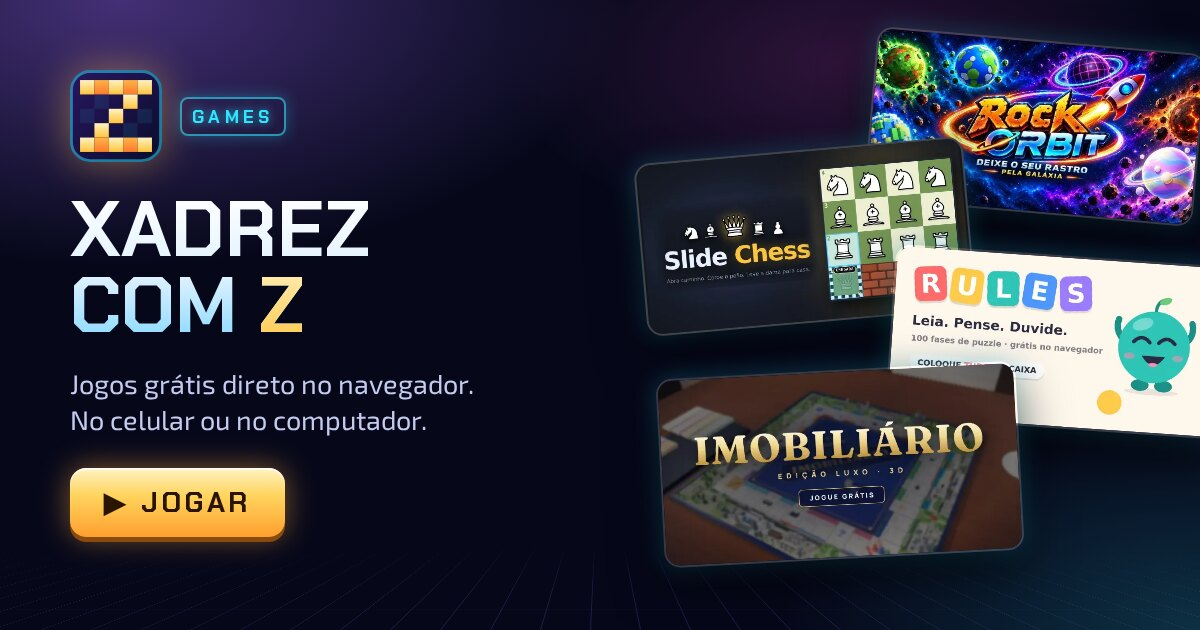
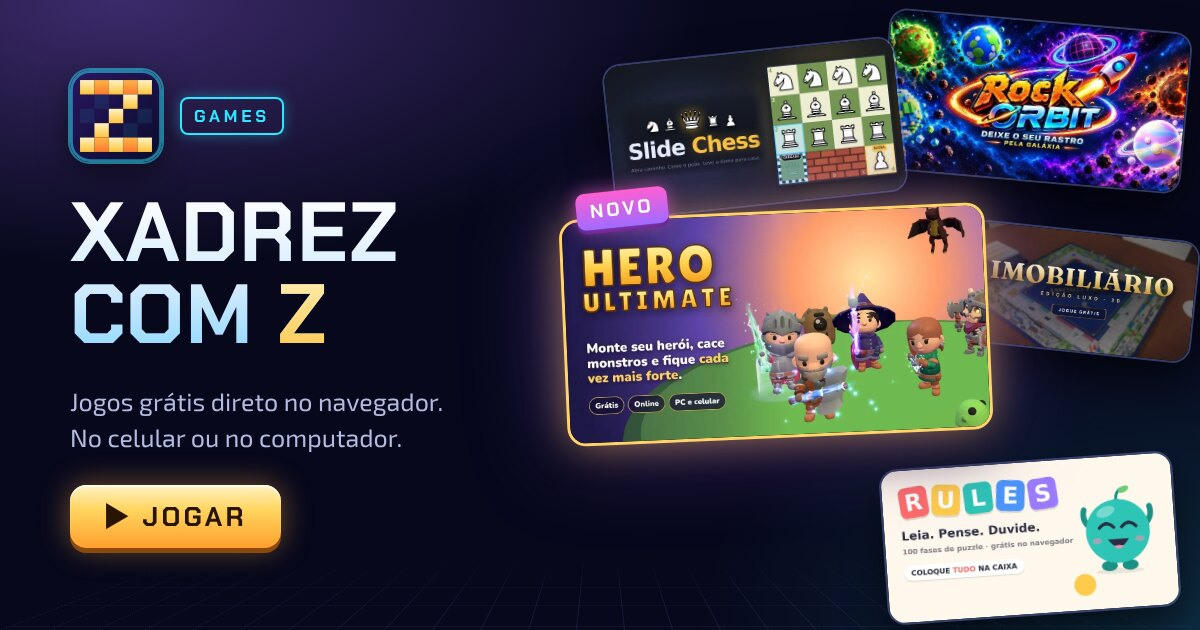
Imagem do link do site com o Hero Ultimate em destaque
A arte fica em ferramentas/arte-compartilhar.html para ser refeita quando
entrar jogo novo. O ?v=hero no og:image faz WhatsApp e Facebook buscarem a
imagem nova em vez da guardada.

Claude-Session: https://claude.ai/code/session_01QdoS8HsHF6PohRwnQfHPnT

diff --git a/ferramentas/arte-compartilhar.html b/ferramentas/arte-compartilhar.html
@@ -1,0 +1,47 @@
+<!doctype html><html><head><meta charset="utf-8">
+<!-- Arte de img/compartilhar-site.jpg (a imagem do link do site). Para refazer: abra
+     esta página numa janela de 1200×630, tire um print e salve como JPEG (até 300 KB).
+     Jogo novo: acrescente um <div class="c"> com a capa e ajuste as posições. -->
+<link rel="stylesheet" href="../fontes/fontes.css">
+<style>
+  *{box-sizing:border-box}
+  html,body{margin:0;width:1200px;height:630px;overflow:hidden}
+  body{position:relative;font-family:"Exo 2",sans-serif;color:#e9ebf8;
+    background:radial-gradient(ellipse 70% 60% at 10% 0%,rgba(160,107,255,.35),transparent 70%),
+               radial-gradient(ellipse 60% 70% at 100% 100%,rgba(46,230,255,.16),transparent 70%),#07081c}
+  .grade{position:absolute;left:0;right:0;bottom:0;height:200px;opacity:.35;
+    background-image:linear-gradient(rgba(160,120,255,.35) 1px,transparent 1px),linear-gradient(90deg,rgba(160,120,255,.35) 1px,transparent 1px);
+    background-size:48px 48px;transform:perspective(400px) rotateX(60deg);transform-origin:bottom;
+    -webkit-mask-image:linear-gradient(transparent,#000 70%)}
+  .esq{position:absolute;left:70px;top:70px;width:470px}
+  .topo{display:flex;align-items:center;gap:18px}
+  .topo img{width:92px;height:92px;border-radius:20px;box-shadow:0 0 0 2px rgba(46,230,255,.5),0 10px 30px rgba(0,0,0,.5)}
+  .games{padding:6px 12px;border:2px solid #2ee6ff;border-radius:8px;color:#2ee6ff;font:700 17px "Chakra Petch";letter-spacing:.22em;box-shadow:0 0 14px rgba(46,230,255,.35)}
+  h1{margin:30px 0 0;font:700 84px/0.98 "Chakra Petch";letter-spacing:.01em;text-transform:uppercase;
+    background:linear-gradient(180deg,#fff 0%,#cfe9ff 60%,#8fd8ff 100%);-webkit-background-clip:text;color:transparent}
+  h1 .z{background:linear-gradient(180deg,#fff2c4,#ffc43d);-webkit-background-clip:text;color:transparent}
+  p{margin:26px 0 0;font:400 25px/1.45 "Exo 2";color:#b4bbe0}
+  .btn{display:inline-flex;align-items:center;gap:12px;margin-top:30px;padding:14px 34px;border-radius:16px;font:700 27px "Chakra Petch";letter-spacing:.12em;color:#2a1500;
+    background:linear-gradient(180deg,#fff2c4 0%,#ffd45e 40%,#ff9f2e 100%);box-shadow:inset 0 2px 0 rgba(255,255,255,.7),0 5px 0 #8a4a0e,0 0 30px rgba(255,170,60,.45)}
+  .c{position:absolute;aspect-ratio:1200/630;border-radius:16px;overflow:hidden;background:#000;
+    box-shadow:0 0 0 2px rgba(140,160,255,.35),0 18px 40px rgba(0,0,0,.6)}
+  .c img{width:100%;height:100%;object-fit:cover;display:block}
+  .c.sc img{object-fit:contain;background:#12161f}
+  .c.hero{box-shadow:0 0 0 3px #ffd36b,0 0 40px rgba(255,190,80,.55),0 0 90px rgba(160,107,255,.5),0 24px 50px rgba(0,0,0,.7)}
+  .novo{position:absolute;padding:6px 14px;border-radius:9px;background:linear-gradient(180deg,#ff5fd2,#a06bff);color:#fff;
+    font:700 19px "Chakra Petch";letter-spacing:.16em;box-shadow:0 0 18px rgba(255,95,210,.6),0 4px 0 #4b1d8a}
+</style></head><body>
+<div class="grade"></div>
+<div class="esq">
+  <div class="topo"><img src="../img/logo.svg" alt=""><span class="games">GAMES</span></div>
+  <h1>Xadrez<br>com <span class="z">Z</span></h1>
+  <p>Jogos grátis direto no navegador.<br>No celular ou no computador.</p>
+  <div class="btn">▶ JOGAR</div>
+</div>
+<div class="c" style="left:885px;top:22px;width:300px;transform:rotate(5deg)"><img src="../img/capa-rock-orbit.webp"></div>
+<div class="c sc" style="left:610px;top:52px;width:290px;transform:rotate(-6deg)"><img src="../img/capa-slide-chess.webp"></div>
+<div class="c" style="left:885px;top:462px;width:290px;transform:rotate(-4deg)"><img src="../img/capa-rules.webp"></div>
+<div class="c" style="left:968px;top:232px;width:226px;transform:rotate(6deg)"><img src="../img/capa-imobiliario.webp"></div>
+<div class="c hero" style="left:566px;top:214px;width:420px;transform:rotate(-2.5deg)"><img src="../img/capa-hero-ultimate.webp"></div>
+<div class="novo" style="left:576px;top:190px;transform:rotate(-6deg)">NOVO</div>
+</body></html>

diff --git a/index.html b/index.html
@@ -18,13 +18,13 @@
 <meta property="og:url" content="https://xadrezcomz.github.io/play/">
 <meta property="og:title" content="Xadrez com Z Games">
 <meta property="og:description" content="Jogue grátis no navegador, no celular ou no computador. Sem instalar nada.">
-<meta property="og:image" content="https://xadrezcomz.github.io/play/img/compartilhar-site.jpg">
+<meta property="og:image" content="https://xadrezcomz.github.io/play/img/compartilhar-site.jpg?v=hero">
 <meta property="og:image:type" content="image/jpeg">
 <meta property="og:image:width" content="1200">
 <meta property="og:image:height" content="630">
-<meta property="og:image:alt" content="Xadrez com Z Games: Imobiliário 3D, Rock Orbit, Slide Chess e RULES, para jogar agora">
+<meta property="og:image:alt" content="Xadrez com Z Games: Hero Ultimate, Imobiliário 3D, Rock Orbit, Slide Chess e RULES, para jogar agora">
 <meta name="twitter:card" content="summary_large_image">
-<meta name="twitter:image" content="https://xadrezcomz.github.io/play/img/compartilhar-site.jpg">
+<meta name="twitter:image" content="https://xadrezcomz.github.io/play/img/compartilhar-site.jpg?v=hero">
 <link rel="preload" href="fontes/chakrapetch-700-latin.woff2" as="font" type="font/woff2" crossorigin>
 <link rel="preload" href="fontes/exo2-400-latin.woff2" as="font" type="font/woff2" crossorigin>
 <link rel="stylesheet" href="fontes/fontes.css">

diff --git a/README.md b/README.md
@@ -132,5 +132,6 @@ computador, e cresce junto em monitores grandes:
      `sw.js` e troque a versão (`xz-site-v1` → `xz-site-v2`).
   4. Acrescente o jogo em `ferramentas/prepara-jogo.py` para ganhar as tags de
      compartilhamento.
-  5. Se quiser, refaça `img/compartilhar-site.jpg` (a imagem do link do site)
+  5. Se quiser, refaça `img/compartilhar-site.jpg` (a imagem do link do site,
+     montada em `ferramentas/arte-compartilhar.html`)
      com os jogos novos.
